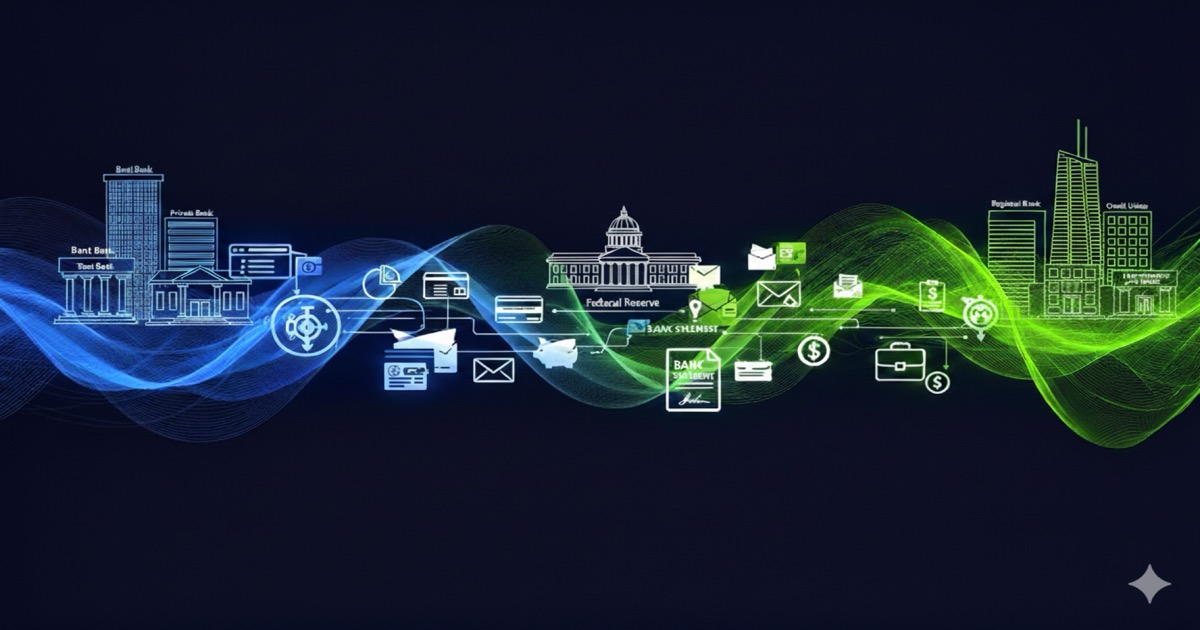
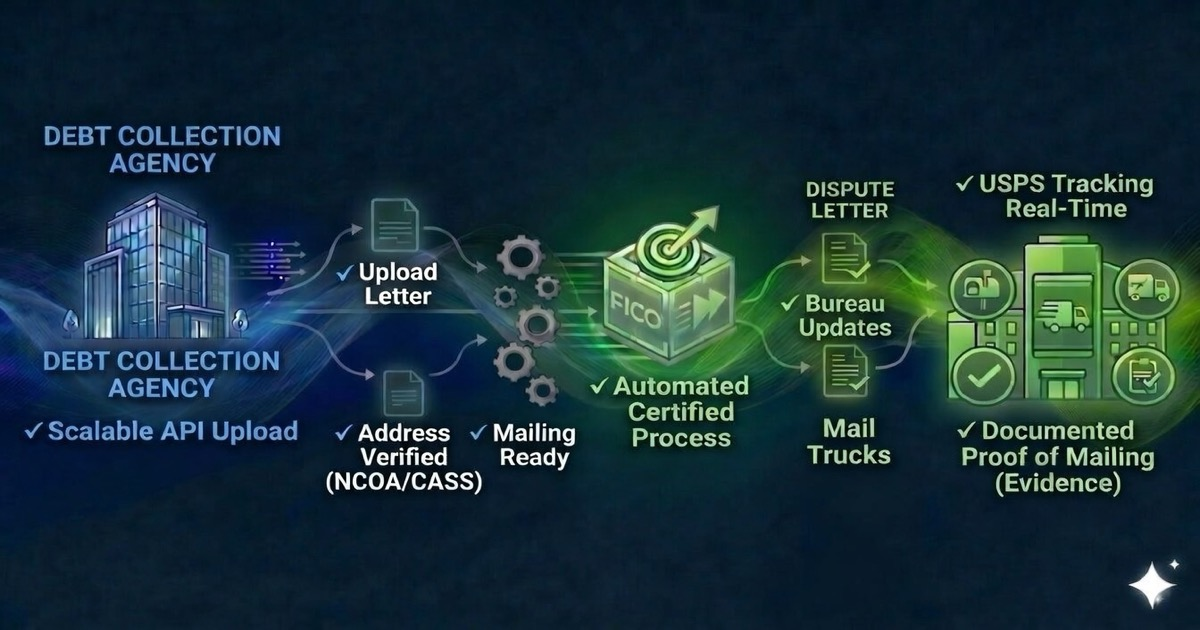
Rebuild debt-collection with navigation

diff --git a/sites/debt-collection/index.html b/sites/debt-collection/index.html
@@ -6,22 +6,22 @@
     <meta name="description" content="Debt collection mailing service for agencies — automate notices, certified letters & compliance docs. Address verification, USPS tracking & secure PDF upload from $1.31/letter." />
 
     <!-- Canonical URL -->
-    <link rel="canonical" href="https://debt-collection.postalcity.com" />
-    <link rel="sitemap" type="application/xml" href="https://debt-collection.postalcity.com/sitemap.xml" />
+    <link rel="canonical" href="https://debt-collection.postalocity.com" />
+    <link rel="sitemap" type="application/xml" href="https://debt-collection.postalocity.com/sitemap.xml" />
 
     <!-- Open Graph / Facebook -->
     <meta property="og:type" content="website" />
-    <meta property="og:url" content="https://debt-collection.postalcity.com" />
+    <meta property="og:url" content="https://debt-collection.postalocity.com" />
     <meta property="og:title" content="Debt Collection Mailing Service — Proof of Mailing" />
     <meta property="og:description" content="Collection agencies streamline high-volume notices and certified mailings with Postalocity's automated platform." />
-    <meta property="og:image" content="https://debt-collection.postalcity.com/og-image.png" />
+    <meta property="og:image" content="https://debt-collection.postalocity.com/og-image.png" />
 
     <!-- Twitter -->
     <meta property="twitter:card" content="summary_large_image" />
-    <meta property="twitter:url" content="https://debt-collection.postalcity.com" />
+    <meta property="twitter:url" content="https://debt-collection.postalocity.com" />
     <meta property="twitter:title" content="Debt Collection Mailing Service — Proof of Mailing" />
     <meta property="twitter:description" content="Automate debt collection mailing — notices, certified letters & compliance docs. Address verification & tracking from $1.31/letter." />
-    <meta property="twitter:image" content="https://debt-collection.postalcity.com/og-image.png" />
+    <meta property="twitter:image" content="https://debt-collection.postalocity.com/og-image.png" />
 
     <!-- SEO Meta Tags -->
     <meta name="keywords" content="debt collection mailing service, automated mailing for collection agencies, certified mail for debt collection agencies, debt collection letter printing and mailing, collection notices mailing services" />
@@ -44,19 +44,19 @@
         {
           "@type": "WebSite",
           "name": "Debt Collection Mailing Service",
-          "url": "https://debt-collection.postalcity.com",
+          "url": "https://debt-collection.postalocity.com",
           "description": "Automated mailing platform for collection notices, demand letters, and certified mail with built-in address verification and tracking for every document.",
           "publisher": {
             "@type": "Organization",
             "name": "Debt Collection Mailing Service",
-            "url": "https://debt-collection.postalcity.com"
+            "url": "https://debt-collection.postalocity.com"
           }
         },
         {
           "@type": "Organization",
           "name": "Debt Collection Mailing Service",
-          "url": "https://debt-collection.postalcity.com",
-          "logo": "https://debt-collection.postalcity.com/logo.png",
+          "url": "https://debt-collection.postalocity.com",
+          "logo": "https://debt-collection.postalocity.com/logo.png",
           "contactPoint": {
             "@type": "ContactPoint",
             "telephone": "316-260-2220",
@@ -76,7 +76,7 @@
           "@type": "LocalBusiness",
           "name": "Debt Collection Mailing Service",
           "description": "Automated mailing platform for collection notices, demand letters, and certified mail with built-in address verification and tracking for every document.",
-          "url": "https://debt-collection.postalcity.com",
+          "url": "https://debt-collection.postalocity.com",
           "telephone": "316-260-2220",
           "email": "contact@postalocity.com",
           "address": {
@@ -110,7 +110,7 @@
           "@type": "Product",
           "name": "Automated Mailing Service",
           "description": "Upload PDFs or connect via API to automate mailing. Starting at $1.31/letter. Single-sided, B&W envelope, postage included.",
-          "image": "https://debt-collection.postalcity.com/og-image.png",
+          "image": "https://debt-collection.postalocity.com/og-image.png",
           "brand": {
             "@type": "Brand",
             "name": "Debt Collection Mailing Service"
@@ -120,7 +120,7 @@
             "price": "1.31",
             "priceCurrency": "USD",
             "availability": "https://schema.org/InStock",
-            "url": "https://debt-collection.postalcity.com",
+            "url": "https://debt-collection.postalocity.com",
             "priceValidUntil": "2027-12-31"
           },
           "aggregateRating": {

diff --git a/sites/debt-collection/main.tsx b/sites/debt-collection/main.tsx
@@ -1,6 +1,6 @@
 /**
  * Debt Collection Mailing Service - Generated from template-microsite
- * Generated at: 2026-03-16T15:13:41.671Z
+ * Generated at: 2026-03-16T17:05:10.811Z
  */
 
 import { createRoot } from 'react-dom/client';
